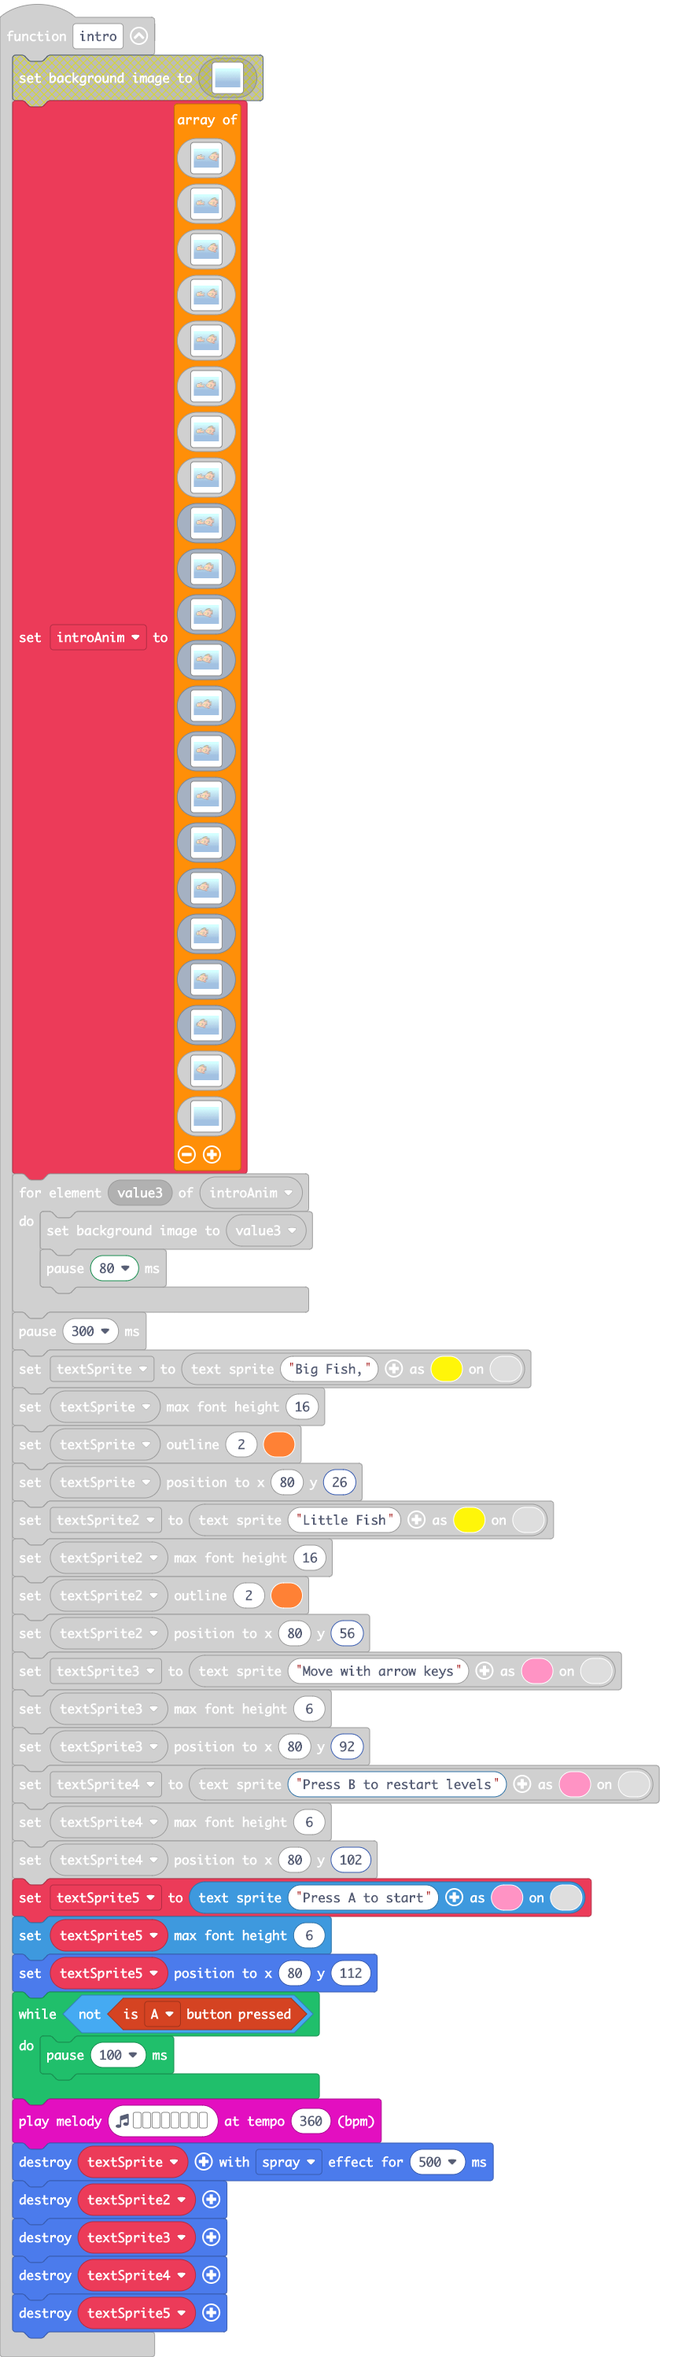
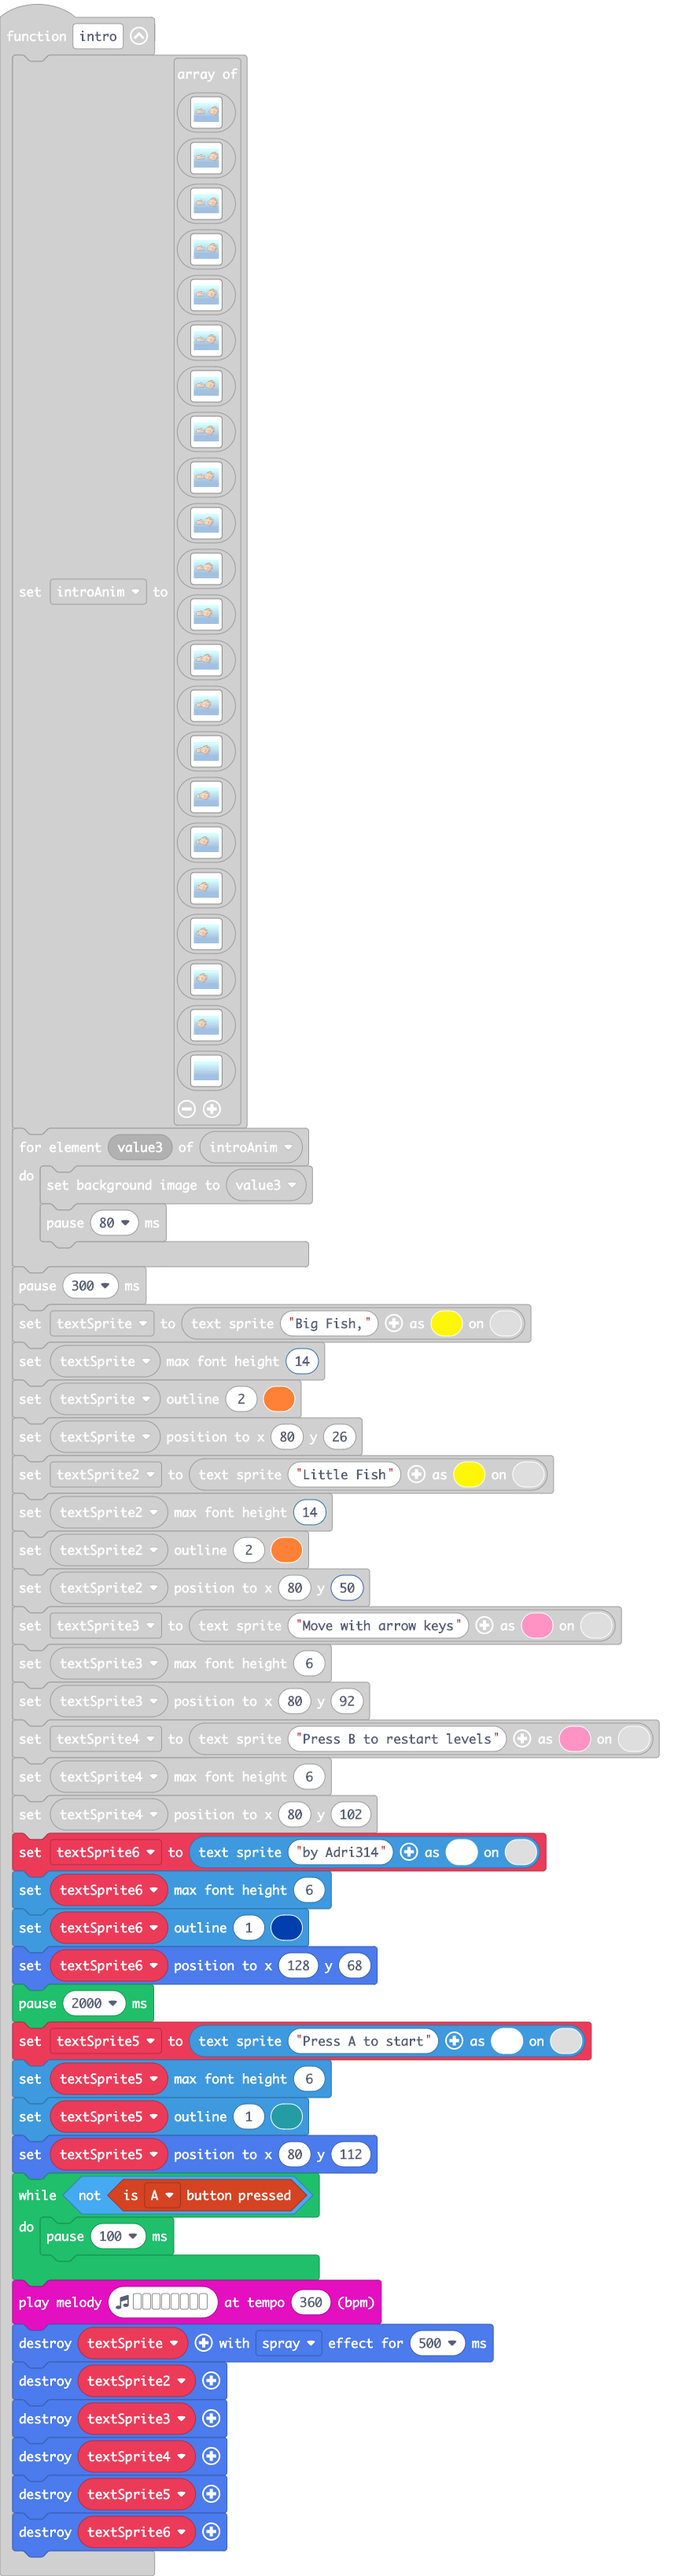
Update main.blocks, main.ts

diff --git a/main.ts b/main.ts
@@ -3433,21 +3433,27 @@ function intro () {
     }
     pause(300)
     textSprite = textsprite.create("Big Fish,", 0, 5)
-    textSprite.setMaxFontHeight(16)
+    textSprite.setMaxFontHeight(14)
     textSprite.setOutline(2, 4)
     textSprite.setPosition(80, 26)
     textSprite2 = textsprite.create("Little Fish", 0, 5)
-    textSprite2.setMaxFontHeight(16)
+    textSprite2.setMaxFontHeight(14)
     textSprite2.setOutline(2, 4)
-    textSprite2.setPosition(80, 56)
+    textSprite2.setPosition(80, 50)
     textSprite3 = textsprite.create("Move with arrow keys", 0, 3)
     textSprite3.setMaxFontHeight(6)
     textSprite3.setPosition(80, 92)
     textSprite4 = textsprite.create("Press B to restart levels", 0, 3)
     textSprite4.setMaxFontHeight(6)
     textSprite4.setPosition(80, 102)
-    textSprite5 = textsprite.create("Press A to start", 0, 3)
+    textSprite6 = textsprite.create("by Adri314", 0, 1)
+    textSprite6.setMaxFontHeight(6)
+    textSprite6.setOutline(1, 8)
+    textSprite6.setPosition(128, 68)
+    pause(2000)
+    textSprite5 = textsprite.create("Press A to start", 0, 1)
     textSprite5.setMaxFontHeight(6)
+    textSprite5.setOutline(1, 6)
     textSprite5.setPosition(80, 112)
     while (!(controller.A.isPressed())) {
         pause(100)
@@ -3458,6 +3464,7 @@ function intro () {
     textSprite3.destroy()
     textSprite4.destroy()
     textSprite5.destroy()
+    textSprite6.destroy()
 }
 controller.left.onEvent(ControllerButtonEvent.Pressed, function () {
     checkMove(-1, 0)
@@ -3530,6 +3537,7 @@ sprites.onOverlap(SpriteKind.Player, SpriteKind.Food, function (sprite, otherSpr
 })
 let move = false
 let textSprite5: TextSprite = null
+let textSprite6: TextSprite = null
 let textSprite4: TextSprite = null
 let textSprite3: TextSprite = null
 let textSprite2: TextSprite = null
